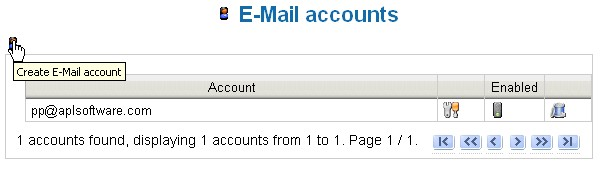
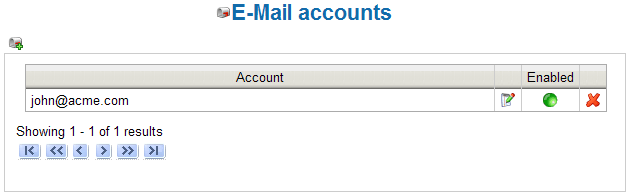
Third commit on logicaldoc-help en.

Changed region(s): [[0.0, 0.1685, 1.0, 0.9831], [0.33, 0.0, 0.66, 0.1404]]

diff --git a/community/logicaldoc/branches/logicaldoc-4.0/logicaldoc-help/src/help/en/introduction.html b/community/logicaldoc/branches/logicaldoc-4.0/logicaldoc-help/src/help/en/introduction.html
@@ -51,7 +51,7 @@
                   <a href="search.html">Quick search                 </a>                <li>                                     
                   <a href="search.html#advanced">Advanced search</a>                                 
                   <li>                                     
-                  <a href="search.html#parametric">Parametric search</a>(<a href="http://www.logicaldoc.it/cmsPublic/-/websitelogicaldoc/en/products/enterprise.html" target="_blank">LogicalDOC Enterprise Edition</a> only)               <li>                                     
+                  <a href="search.html#parametric">Parametric search</a> (<a href="http://www.logicaldoc.it/cmsPublic/-/websitelogicaldoc/en/products/enterprise.html" target="_blank">LogicalDOC Enterprise Edition</a> only)               <li>                                     
                   <a href="showkeywords.html">Show Keywords</a>                                                                                 
                 </ul>            </li>                                              
                 <p> <strong> Communicate</strong>                </p>                                              
@@ -69,11 +69,11 @@
                   <a href="configsmtp.html">Smtp Configurations</a></li>                <li>                                     
                   <a href="emailaccounts.html">Import Documents from Mailbox</a></li>                
                   <li>                                     
-                  <a href="remotefolders.html">Import from Remote Shares</a>(Enterprise Edition only)</li>                <li>                                     
+                  <a href="remotefolders.html">Import from Remote Shares</a> (Enterprise Edition only)</li>                <li>                                     
                   <a href="customids.html">Custom ID</a> (Enterprise Edition only)</li>                <li>                                     
-                  <a href="branding.html">Branding</a>(Enterprise Edition only)</li>                <li>                                     
+                  <a href="branding.html">Branding</a> (Enterprise Edition only)</li>                <li>                                     
                   <a href="tasks.html">Scheduled Tasks</a></li>                <li>                                     
-                  <a href="archivemaintenance.html">Archive Maintenance</a>(Enterprise Edition only)</li>                                                
+                  <a href="archivemaintenance.html">Archive Maintenance</a> (Enterprise Edition only)</li>                                                
                 </ul>            </li>                                        
               </ul>		                                
               <img alt="" src="images/spacer.gif" class="spacer" height="100" width="300" />                                  

diff --git a/community/logicaldoc/branches/logicaldoc-4.0/logicaldoc-help/src/help/en/folders.html b/community/logicaldoc/branches/logicaldoc-4.0/logicaldoc-help/src/help/en/folders.html
@@ -57,18 +57,18 @@
 			    through the folders and keeps track of your position. You can simply switch between folders using this path.</p>
 			  <p>
 			    <center>
-			      <img src="images/folders_03.gif" width="368" height="17" heigth="197">
+			      <img src="images/folders_03.gif" width="253" height="18" heigth="197">
 			      <br>
 			      Picture 10: A folder's navigation path (breadcrumb)
                 </center>
 		      </p>
 			  <p>Moreover, you can visualize the entire folder-tree by clicking on icon <a href="images/icons01folder.gif" target="_blank"><span class="iconref">1.2</span></a>: 
 			    LogicalDOC displays a window in which you can view all the folders<br>
-			    created by all users; By selecting one, you can see its content. This 
+			    created by all users; by selecting one, you can see its content. This 
 			    feature is very useful when there are plenty of folders and you want to<br>
 		      quickly switch from one to another.</p>
 			  <h3><a name="create"></a>Folder Creation </h3>
-          <p>In LogicalDOC you can create a new folder by clicking on icon <a href="images/icons01folder.gif" target="_blank"><span class="iconref">1.1</span></a>. Next
+          <p>In LogicalDOC you can create a new folder by clicking on icon <a href="images/icons01folder.gif" target="_blank"><span class="iconref">1.1</span></a>. <br> Next
             step is to give your folder a name and then click the <span class="style1">Save</span> button to
             complete the operation.</p>
           <p>
@@ -130,7 +130,7 @@
           <p>In LogicalDOC you can export the content of a folder by clicking on icon
             <a href="images/icons01folder.gif" target="_blank"><span class="iconref">1.6</span></a>. Then LogicalDOC displays a window to save the entire content of the
             folder in a file called <span class="style1">ZipExport.zip</span>. This operation can only be done by
-            users that have Bulk Export permission.</p>
+            users that have <span class="style1">Bulk Export</span> permission.</p>
           <p>
             <center>
               <img src="images/folders_07.gif" width="521" height="230" heigth="197"> <br>

diff --git a/community/logicaldoc/branches/logicaldoc-4.0/logicaldoc-help/src/help/en/emailaccounts.html b/community/logicaldoc/branches/logicaldoc-4.0/logicaldoc-help/src/help/en/emailaccounts.html
@@ -38,11 +38,11 @@
            In regular timeintervals, the system will inspect these mailboxes to the search for new messages that will come
             automatically acquired and inserted into the archive as documents.</p>
            <h3>Mailboxes setup</h3> 
-          <p>You access the page management following the path: <span class="style1">Administration --&gt; E-mails --&gt; E-Mail accounts</span>.  <br> 
+          <p>You access the page management following the path: <span class="style1">Administration --&gt; E-Mails --&gt; E-Mail accounts</span>.  <br> 
             <br>
             <br>
           </p>
-          <div align="center"><img src="images/emailaccounts01.jpg" height="220" width="347"></div>
+          <div align="center"><img src="images/emailaccounts01.jpg" height="279" width="413"></div>
           <p>Centered on the screen, come visualized all mailboxes recorded into the system.  <br>
            On first access, naturally this list will be empty.</p> 
           <p><br>

diff --git a/community/logicaldoc/branches/logicaldoc-4.0/logicaldoc-help/src/help/en/customids.html b/community/logicaldoc/branches/logicaldoc-4.0/logicaldoc-help/src/help/en/customids.html
@@ -56,7 +56,7 @@ explanation of the tokens that can be used to compose the schema. Using the
 checkbox <span class="style2">Regenerate on Checkin</span> you can ask LogicalDOC to regenerate
 the custom ID of a document on which you have done the check-in operation.              </p>
 			               			    <center>
-			                              <p><img src="images/customids_02.gif" width="418" height="217" heigth="197">
+			                              <p><img src="images/customids_02.gif" width="481" height="379" heigth="197">
 			                                <br>
 			      Picture 46: Schema edit page </p>
 			                              <p>&nbsp;</p>

diff --git a/community/logicaldoc/branches/logicaldoc-4.0/logicaldoc-help/src/help/en/showsysmess.html b/community/logicaldoc/branches/logicaldoc-4.0/logicaldoc-help/src/help/en/showsysmess.html
@@ -43,9 +43,9 @@
             Notice the Priority (icon on the first column of the table) and the link for the fast erasure
              of the message.<br> 
             <br>
-            Clicking on the elements of the directory, the content of the message will become visualized.<br> 
+            Clicking on the elements of the directory, the content of the message will become visualized.<br><br>
           </p>
-          <div align="center"><img src="images/sysmessage03.jpg" height="165" width="774"> </div>
+          <div align="center"><img src="images/sysmessage03.jpg" height="183" width="623"> </div>
           <p><br>
             <br>
           </p>

diff --git a/community/logicaldoc/branches/logicaldoc-4.0/logicaldoc-help/src/help/en/documentmanagement.html b/community/logicaldoc/branches/logicaldoc-4.0/logicaldoc-help/src/help/en/documentmanagement.html
@@ -30,7 +30,7 @@
                 <tbody>
                   <tr>
                     <td valign="middle">
-                    <h1><!-- InstanceBeginEditable name="TitleRegion" --><a href="file:///C:/Documents%20and%20Settings/Matteo/workspace/logicaldoc-help/src/help/en/documentmanagement.html" target="mainFrame">Document Management</a><!-- InstanceEndEditable --></h1></td>
+                    <h1><!-- InstanceBeginEditable name="TitleRegion" -->Document Management<!-- InstanceEndEditable --></h1></td>
                   </tr>
                 </tbody>
               </table>

diff --git a/community/logicaldoc/branches/logicaldoc-4.0/logicaldoc-help/src/help/en/search.html b/community/logicaldoc/branches/logicaldoc-4.0/logicaldoc-help/src/help/en/search.html
@@ -33,7 +33,7 @@
                 </tbody>
               </table>
               <!-- InstanceBeginEditable name="ContentRegion" -->
-          <p>In LogicalDOC you can search a document in four different ways:<br>
+          <p>In LogicalDOC you can search a document in three different ways:<br>
             1. Quick search<br>
             2. <a href="#advanced">Advanced search</a><br>
             3. <a href="#parametric">Parametric search</a> (Enterprise Edition only)</p>

diff --git a/community/logicaldoc/branches/logicaldoc-4.0/logicaldoc-help/src/help/en/emaildocument.html b/community/logicaldoc/branches/logicaldoc-4.0/logicaldoc-help/src/help/en/emaildocument.html
@@ -37,7 +37,7 @@
            Such functionality, essentially allows to generate a mail to a specific address, containing the selected document .<br> 
             <br>
             It will be sufficient to access to a folder with documents and from the Tools menu of the document (Right Click on the document),
-            choose "Send as email".<br> 
+            choose <span class="style1">Send as email</span>.<br> 
             <br>
           </p>
           <div>

diff --git a/community/logicaldoc/branches/logicaldoc-4.0/logicaldoc-help/src/help/en/configsmtp.html b/community/logicaldoc/branches/logicaldoc-4.0/logicaldoc-help/src/help/en/configsmtp.html
@@ -45,7 +45,7 @@
           <div>
             <div align="center"><img src="images/smtpconfig.jpg" height="263" width="534"></div>
           </div>
-		   <p>All ther fields of the form are mandatory. </p>
+		   <p>All the fields of the form are mandatory. </p>
 		   <p> 
 		      <div align="center">
             <table width="90%" border="0" cellpadding="0" cellspacing="0">
